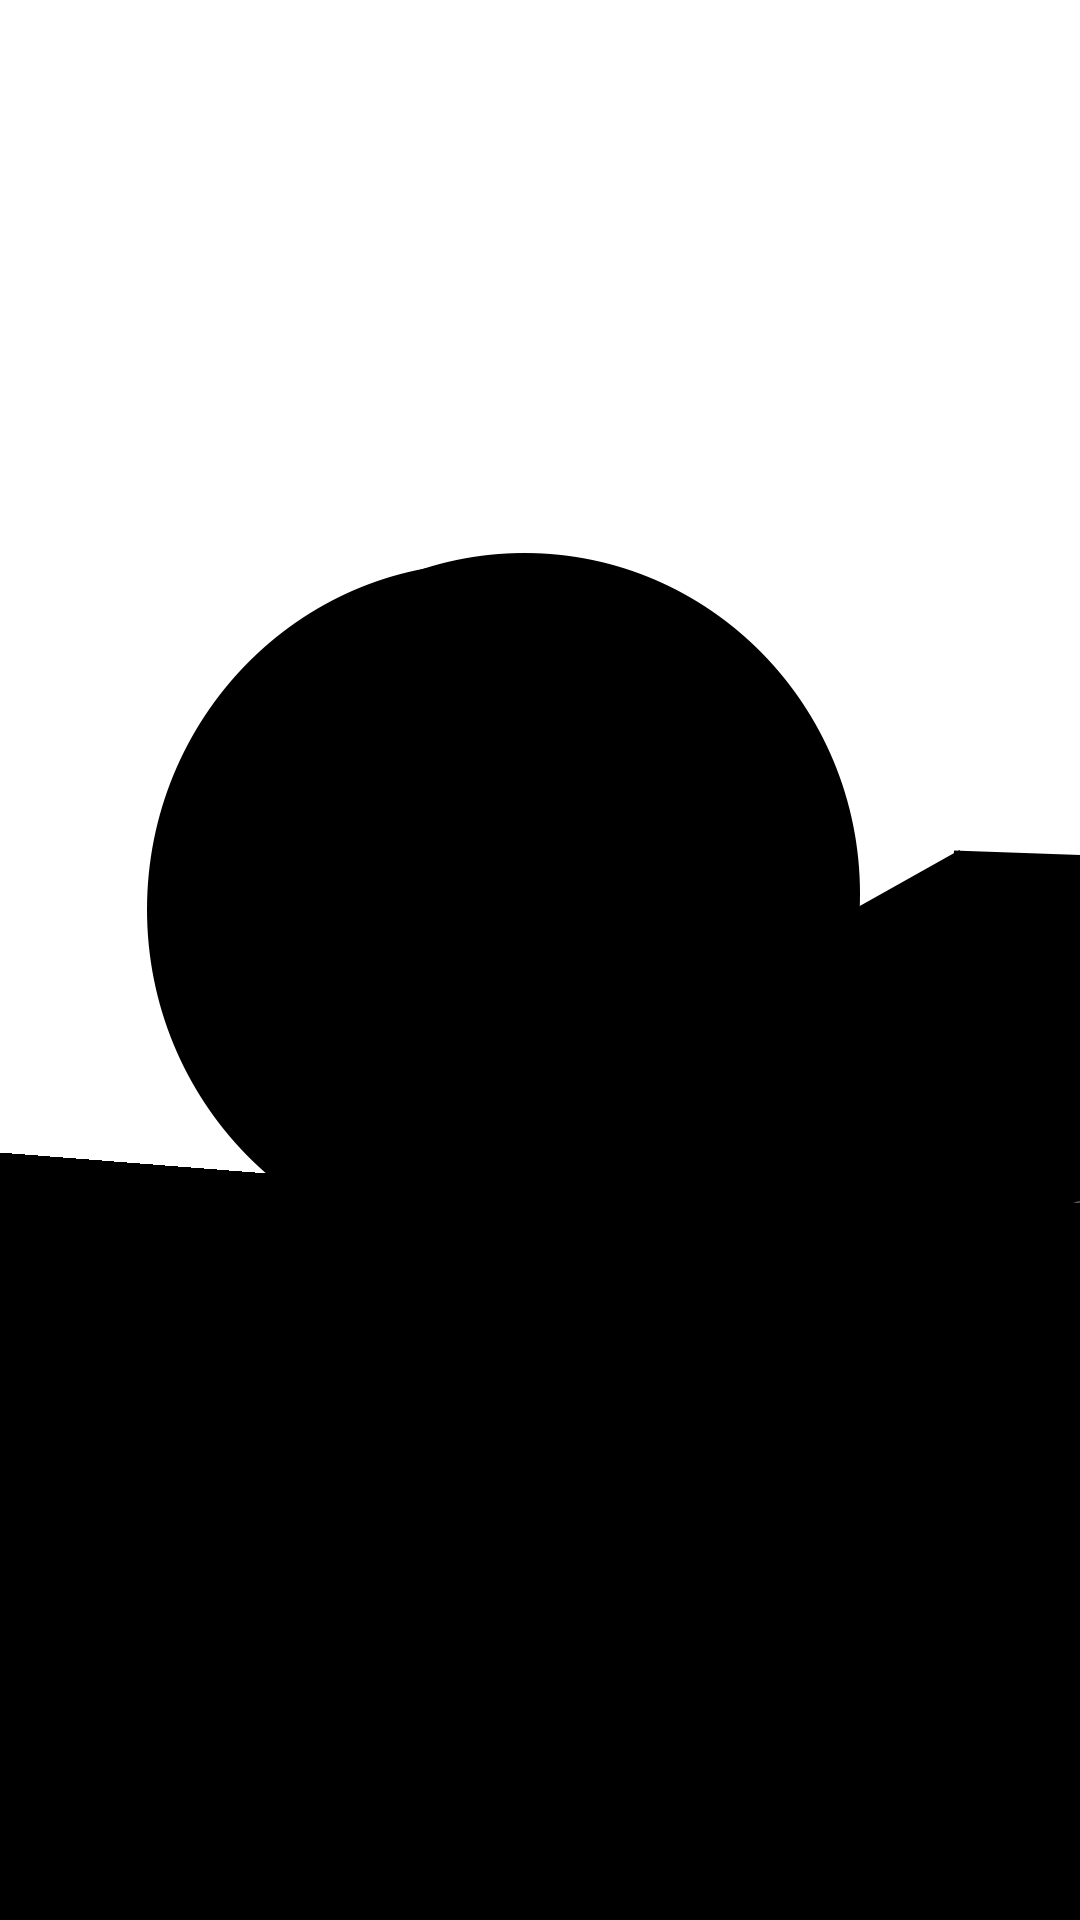
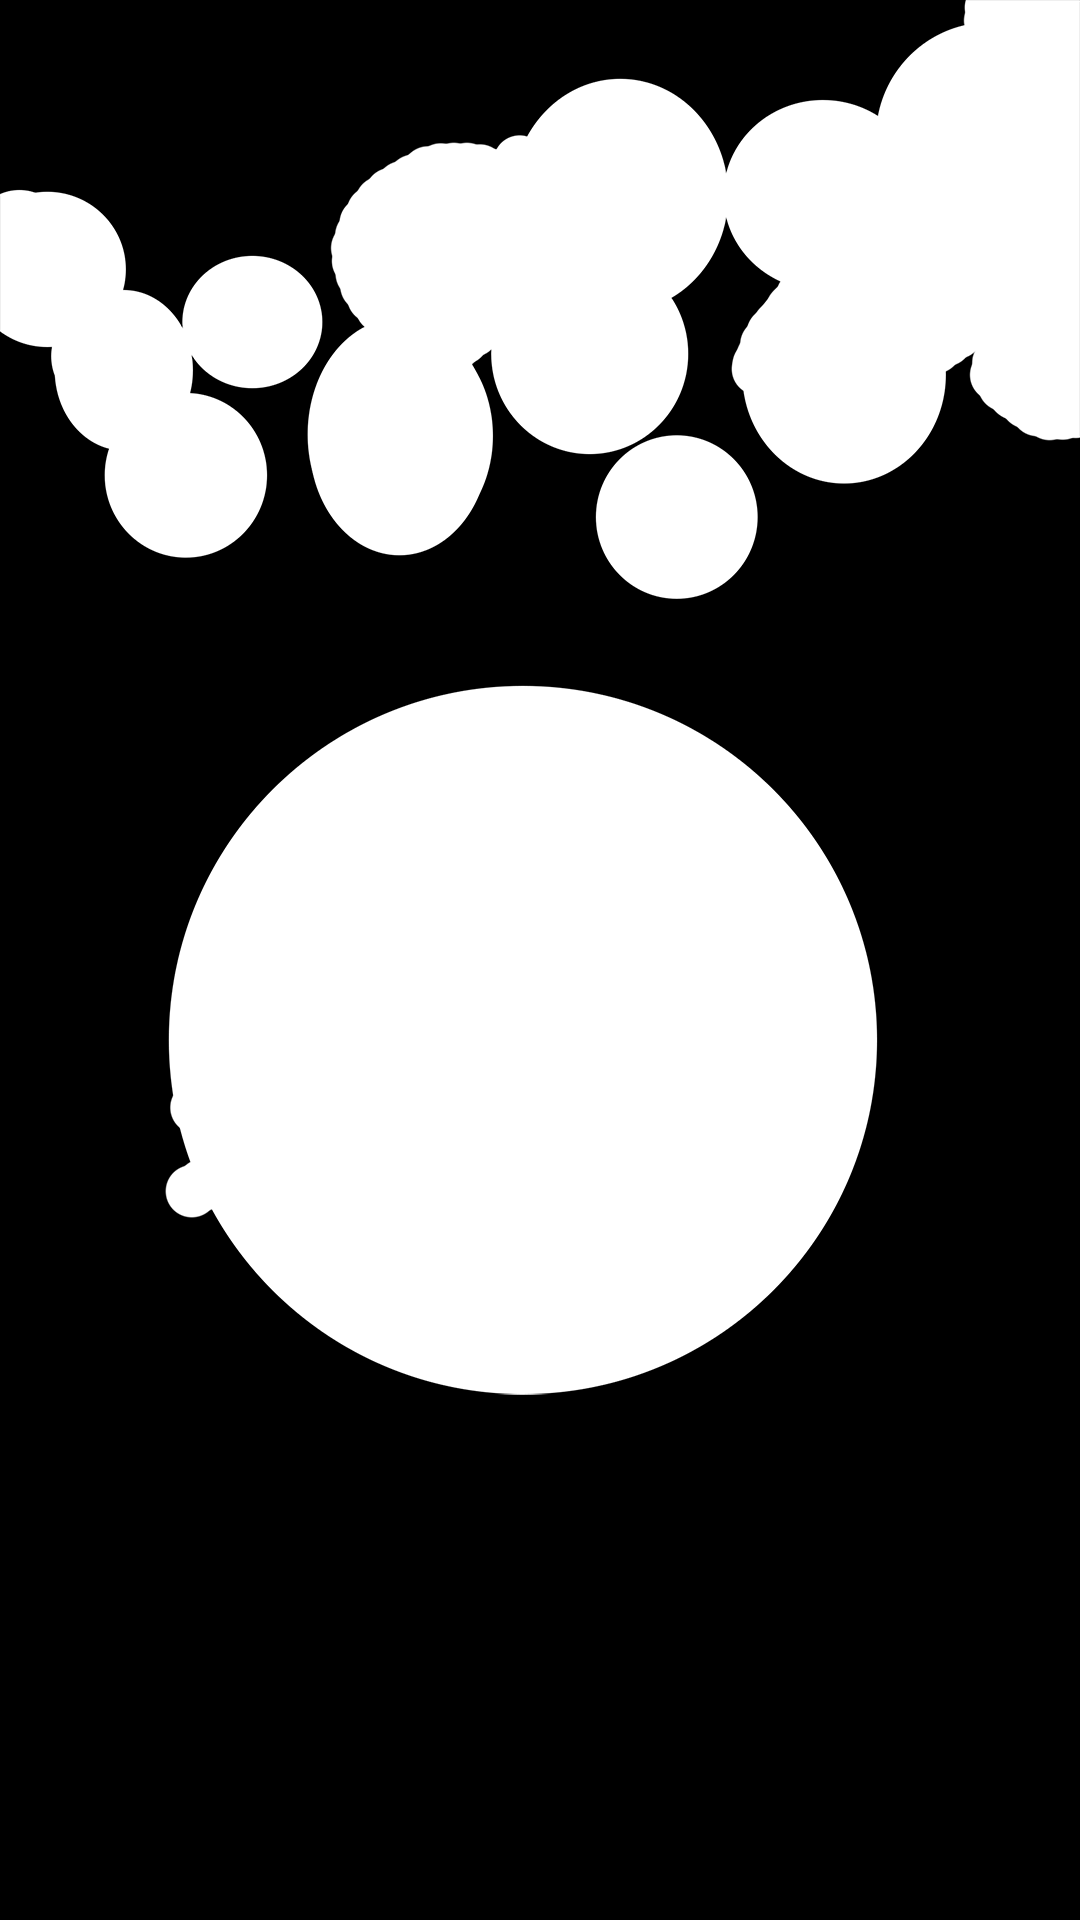
Added contrast system.

diff --git a/sketch.js b/sketch.js
@@ -19,40 +19,32 @@ function setup () {
 }
 
 function draw () {
-  for(let i=0;i<200;i++) {
+  for(let i=0;i<100;i++) {
     let x = floor(random(sourceImg.width));
     let y = floor(random(sourceImg.height));
     let pix = sourceImg.get(x, y);
     let mask = maskImg.get(x, y);
     let pointSize = 50;
     let halfSize = 25;
-    fill(pix);
     if(mask[0] > 128) {
-      noStroke();
-      fill(0);
-      rect(x-halfSize, y-halfSize, pointSize, pointSize);    
-      stroke(pix);
-      strokeWeight(3);
-      line(x-halfSize,y-halfSize,x-halfSize,y+halfSize);
-      line(x-halfSize*0.8,y-halfSize,x-halfSize*0.8,y+halfSize);
-      line(x-halfSize*0.6,y-halfSize,x-halfSize*0.6,y+halfSize);
-      line(x-halfSize*0.4,y-halfSize,x-halfSize*0.4,y+halfSize);
-      line(x-halfSize*0.2,y-halfSize,x-halfSize*0.2,y+halfSize);
-      line(x,y-halfSize,x,y+halfSize);
-      line(x+halfSize,y-halfSize,x+halfSize,y+halfSize);
-      line(x+halfSize*0.8,y-halfSize,x+halfSize*0.8,y+halfSize);
-      line(x+halfSize*0.6,y-halfSize,x+halfSize*0.6,y+halfSize);
-      line(x+halfSize*0.4,y-halfSize,x+halfSize*0.4,y+halfSize);
-      line(x+halfSize*0.2,y-halfSize,x+halfSize*0.2,y+halfSize);
-    } else {
-      noStroke();
-      fill(pix);
+      if (brightness(color(pix))>=50) {
+        fill(lerpColor(color(pix),color(255,255,255),0.3));
+      } else {
+        fill(lerpColor(color(pix),color(0,0,0),0.3));
+      }
       quad(x-random(24,33),y-random(24,33),x-random(24,33),y+random(24,33),x+random(24,33),y+random(24,33),x+random(24,33),y-random(24,33));
+      } else {
+      fill(lerpColor(color(pix),color(0,0,0),0.6));
+      quad(x-random(24,33),y-random(24,33),x-random(24,33),y+random(24,33),x+random(24,33),y+random(24,33),x+random(24,33),y-random(24,33));
+      stroke(pix);
+      noFill();
+      ellipse(x,y,16,16);
+      noStroke();
     }
   }
 
   renderCounter = renderCounter + 1;
-  if(renderCounter > 10) {
+  if(renderCounter > 20) {
     console.log("Done!")
     noLoop();
     // saveBlocksImages();

diff --git a/README.md b/README.md
@@ -1,3 +1,3 @@
 ## Creative Coding 2: Custom Pixel
 
-The images above are photos I have taken that are processed through an alogrithm that converts "natural" areas into an irregular square pattern, and unnatural areas into a very regular line pattern. The first image in the set is the exact opposite to the rule as I thought the colours of the unnatural section looked nicer with the flat colouring.
+The theme I am working with is 'Clutter.' I have taken photos of various messy areas around my house that have been left there. I have used irregular rectangles to increase the overall chaos of the image. Areas of clutter are highlighted in lighter colours, while other areas are darker and blend into the background. I intend to colour areas of clutter with a scribbled line to further add chaos and highlight them better.
